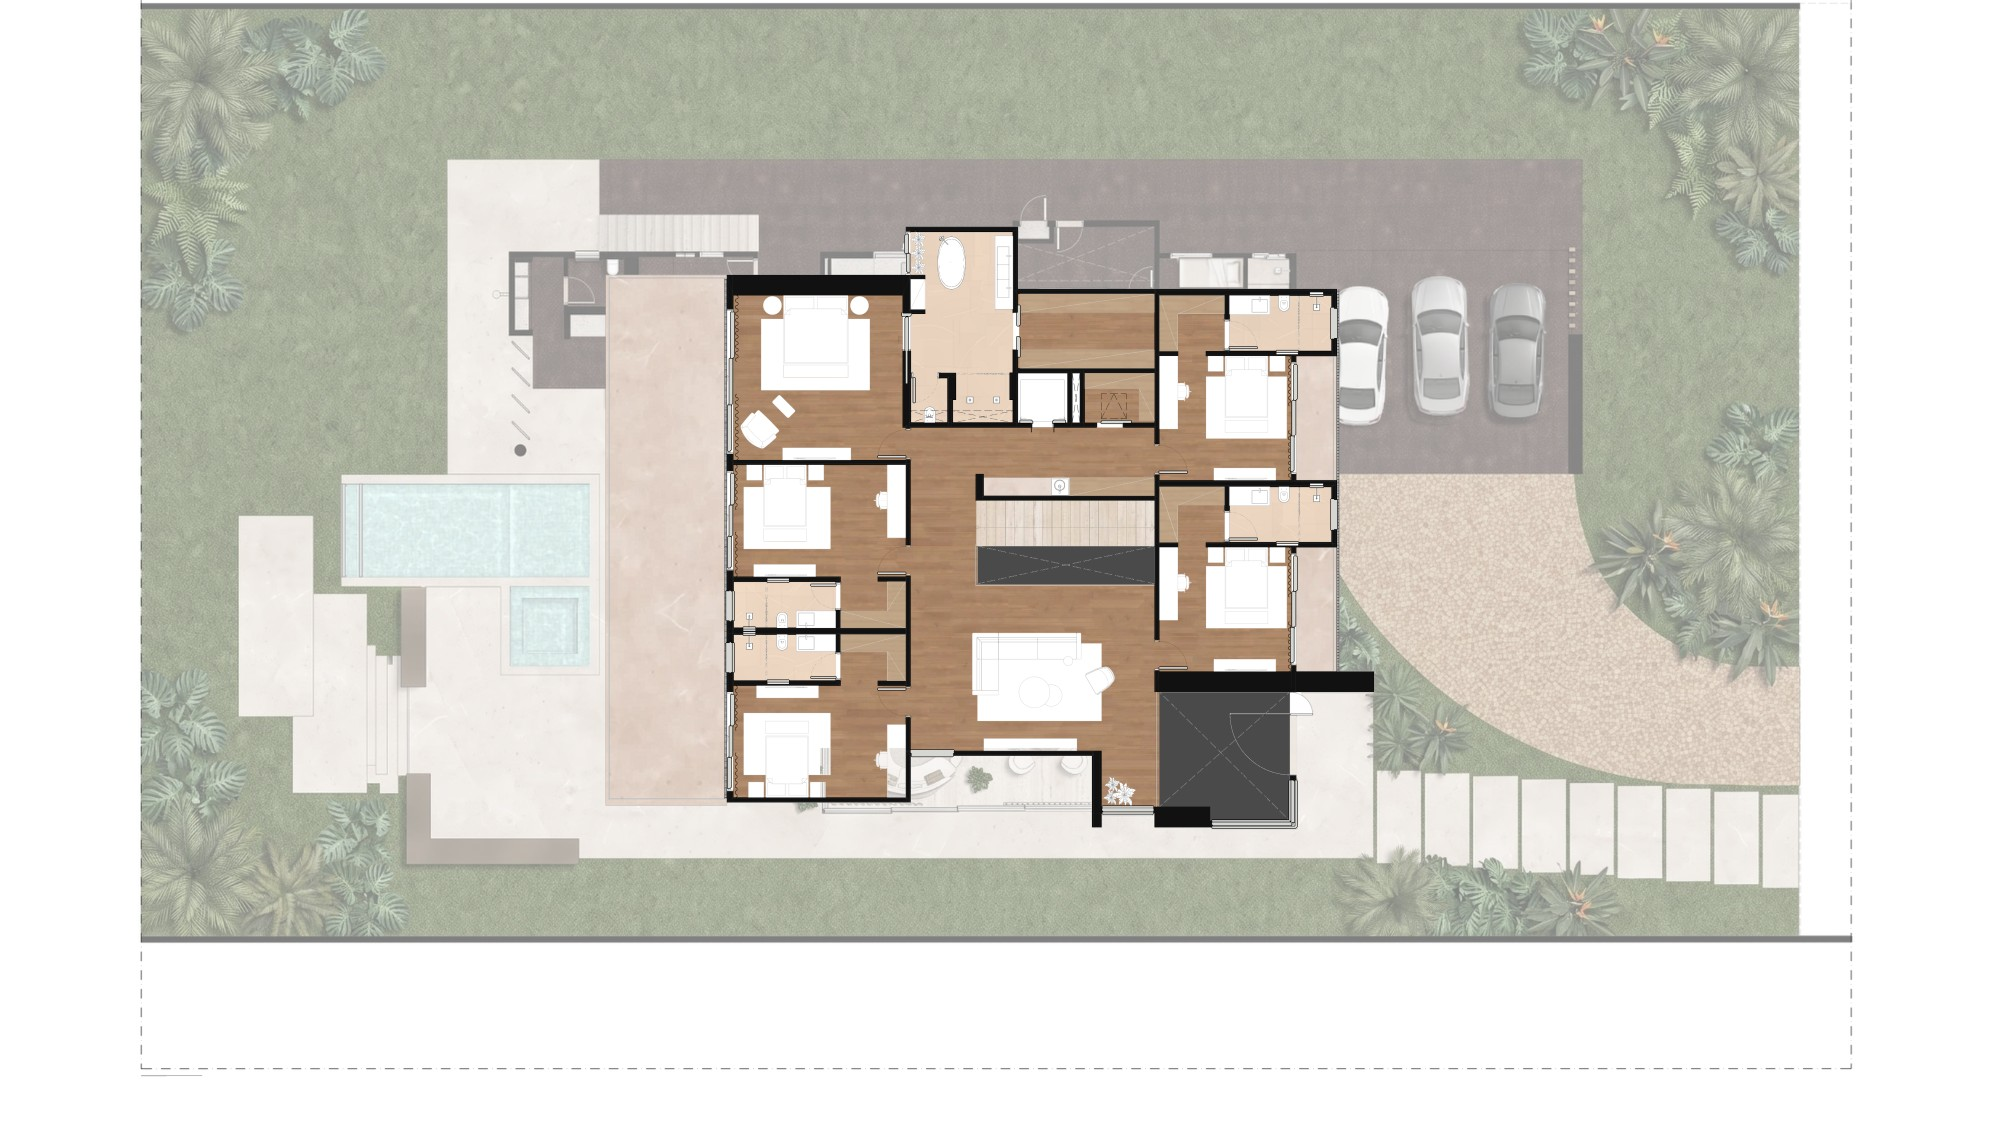
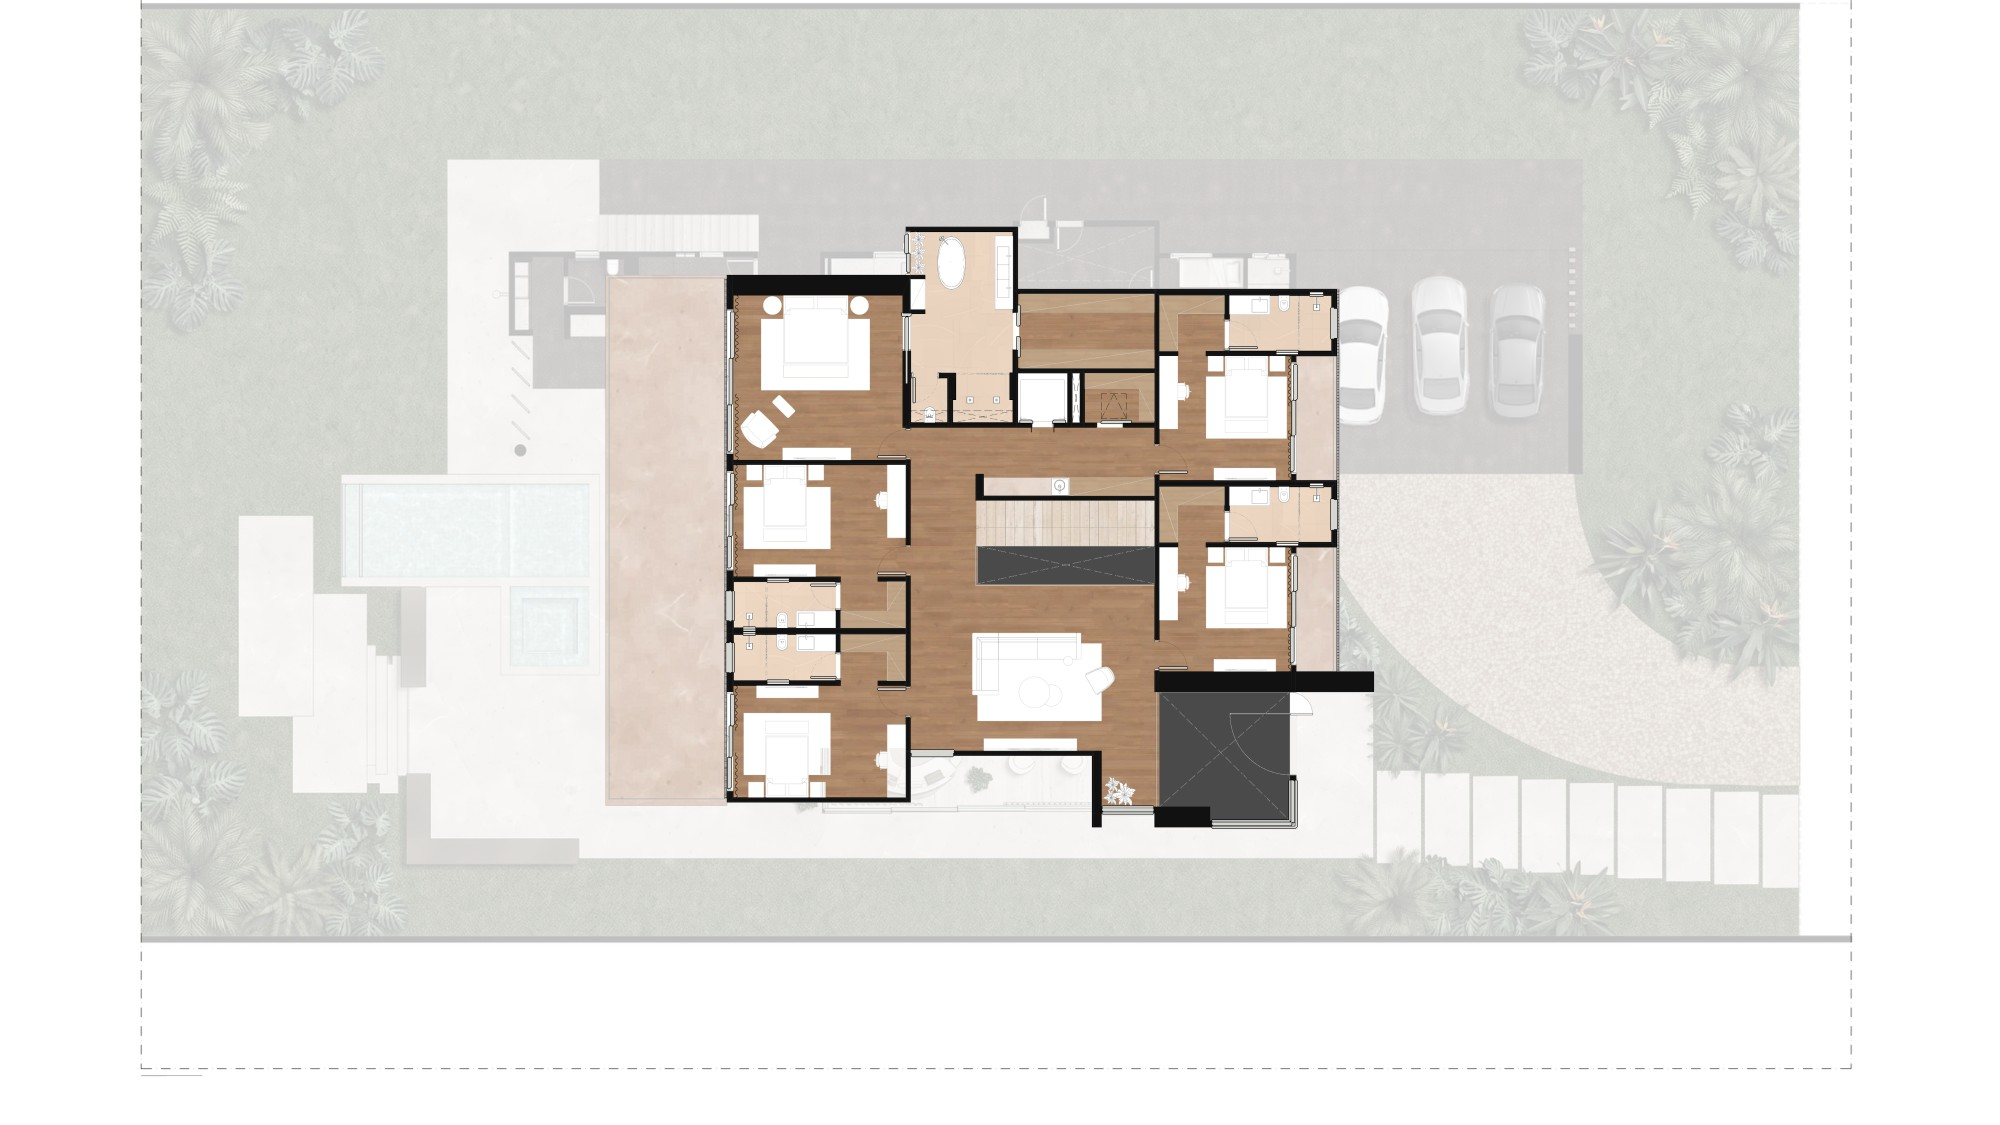
POE642 Casa E 1º Pavimento: Térreo mais esmaecido no entorno (75%)
Pedido do usuário ("temos que esmaecer mais"): o entorno_esmaecido.py passa a
clarear 75% e deixar 40% da saturação (antes 50% e 60%). Camada do Térreo
recortado e base v4 refeitas.

Claude-Session: https://claude.ai/code/session_01Mm19WX3KoLN1nXMDF5Ay3F

diff --git a/projetos/POE642_CasaA/scripts/entorno_esmaecido.py b/projetos/POE642_CasaA/scripts/entorno_esmaecido.py
@@ -59,7 +59,7 @@ def pegada(base, fora=()):
     return cv2.morphologyEx(peg.astype(np.uint8), cv2.MORPH_OPEN, np.ones((5, 5), np.uint8)) > 0
 
 
-def compor(base, render_baixo, base_baixo, clarear=0.5, saturacao=0.6, fora=(), cima=None, recorte=None):
+def compor(base, render_baixo, base_baixo, clarear=0.75, saturacao=0.4, fora=(), cima=None, recorte=None):
     """base: a base 16:9 do pavimento de cima (pegada e tracejado); cima: a imagem que vai por cima,
     já no quadro da base (o render do pavimento de cima), ou None para a própria base."""
     H, W = base.shape[:2]
@@ -90,8 +90,8 @@ def main():
     ap.add_argument("render_baixo", type=Path, help="render aprovado do pavimento de baixo")
     ap.add_argument("base_baixo", type=Path, help="base 16:9 do pavimento de baixo (alinhamento)")
     ap.add_argument("saida", type=Path)
-    ap.add_argument("--clarear", type=float, default=0.5)
-    ap.add_argument("--saturacao", type=float, default=0.6)
+    ap.add_argument("--clarear", type=float, default=0.75)
+    ap.add_argument("--saturacao", type=float, default=0.4)
     ap.add_argument("--base-cima", type=Path, default=None,
                     help="base 16:9 do pavimento de cima, quando a primeira imagem é o render dele")
     ap.add_argument("--largura", type=int, default=None, help="largura da saída (padrão: a da base)")

diff --git a/projetos/POE642_CasaA/scripts/README.md b/projetos/POE642_CasaA/scripts/README.md
@@ -373,7 +373,7 @@ python3 POE642_CasaA/scripts/piscina_dreno_casad.py      # -> POE642_CasaD/rende
 
 ## Pavimento de baixo esmaecido em volta: `entorno_esmaecido.py`
 
-Para um pavimento superior cujo PDF não traz o térreo (Casa E · 1º Pavimento): leva o render aprovado do pavimento de baixo ao quadro 16:9 comum (o `no_quadro_comum` das pranchas), clareia (`--clarear`, padrão 0,5) e tira saturação (`--saturacao`, padrão 0,6), e põe por cima a pegada do pavimento de cima em cor cheia (o que não é branco, fechado e com os furos preenchidos). `--fora` devolve ao contexto uma área branca de fora presa na pegada (px de uma prévia de 2000 px). As linhas tracejadas do lote continuam por cima. Com `--base-cima`, a primeira imagem é o render do pavimento de cima: ele vai ao quadro da base dele e entra por cima integralmente, na pegada tirada da base; `--largura` define a saída (3840 para a prancha) e `--recorte` salva também a camada do térreo esmaecido com a área do pavimento de cima transparente.
+Para um pavimento superior cujo PDF não traz o térreo (Casa E · 1º Pavimento): leva o render aprovado do pavimento de baixo ao quadro 16:9 comum (o `no_quadro_comum` das pranchas), clareia (`--clarear`, padrão 0,75) e tira saturação (`--saturacao`, padrão 0,4: fica 40% da saturação), e põe por cima a pegada do pavimento de cima em cor cheia (o que não é branco, fechado e com os furos preenchidos). `--fora` devolve ao contexto uma área branca de fora presa na pegada (px de uma prévia de 2000 px). As linhas tracejadas do lote continuam por cima. Com `--base-cima`, a primeira imagem é o render do pavimento de cima: ele vai ao quadro da base dele e entra por cima integralmente, na pegada tirada da base; `--largura` define a saída (3840 para a prancha) e `--recorte` salva também a camada do térreo esmaecido com a área do pavimento de cima transparente.
 
 ```bash
 python3 entorno_esmaecido.py ../../POE642_CasaE/bases/POE642_CasaE_BASE_1Pavimento_v3_texturas_16x9.png \

diff --git a/projetos/POE642_HANDOFF_SESSAO_LOCAL.md b/projetos/POE642_HANDOFF_SESSAO_LOCAL.md
@@ -520,7 +520,7 @@ python texturizar_base.py Subsolo ../../POE642_CasaC/bases/POE642_CasaC_BASE_Sub
 - **Prompt v1:** `POE642_CasaE_PH_1Pavimento_v1.md` (entrada: `bases/POE642_CasaE_BASE_1Pavimento_v3_texturas_16x9.png`). A casa vai de ~30% a ~69% da largura e de ~20% a ~74% da altura; as linhas tracejadas do lote ficam a ~7% e ~92,5% da largura e a ~95% da altura. Fundo branco (sem entorno do Térreo, como na base). Ambientes descritos por posição, porque o texto do PDF sai da base.
 - **Entorno (pedido do usuário, 16/10/26):** vegetação no entorno da residência, com o Térreo esmaecido em volta, como no 1º Pavimento da Casa A (opção escolhida entre: Térreo esmaecido, Térreo em cor cheia ou só grama).
   - **Base v4:** `bases/POE642_CasaE_BASE_1Pavimento_v4_entorno_16x9.png` e a prévia. É a v3 com texturas, mais o render aprovado do Térreo (`renders/POE642_CasaE_PH_Terreo_v1_retocado.png`, com o Barlavento) em volta da pegada do 1º Pavimento.
-    - O Térreo vai ao quadro comum (106 pontos, erro mediano 1,28 px na largura da base), 50% mais claro e 40% menos saturado.
+    - O Térreo vai ao quadro comum (106 pontos, erro mediano 1,28 px na largura da base), 75% mais claro e 60% menos saturado (o usuário pediu "temos que esmaecer mais"; antes, 50% e 40%; comparados 50, 65 e 75%).
     - A área branca abaixo da sala íntima, fora da casa, também mostra o contexto.
     - Script novo: `scripts/entorno_esmaecido.py`.
   - **Prompt v2:** `POE642_CasaE_PH_1Pavimento_v2.md` (entrada: a base v4). O fundo branco virou o Térreo esmaecido, mantido exatamente como está; a vegetação fica só nele; em cor cheia, só o 1º Pavimento.

diff --git a/projetos/POE642_CasaE/POE642_CasaE_PH_1Pavimento_v2.md b/projetos/POE642_CasaE/POE642_CasaE_PH_1Pavimento_v2.md
@@ -10,7 +10,7 @@ _16/10/2026. Motor: Higgsfield Nano Banana Pro (image-to-image, 16:9, 2K, PNG), 
 
 **Da v1 para a v2 (pedido seu, 16/10/26):** vegetação no entorno da residência, com o Térreo esmaecido em volta, como no 1º Pavimento da Casa A.
 - **Base v4:** a v3 com texturas, mais o render aprovado do Térreo da Casa E em volta da casa.
-  - mais claro (50%) e menos saturado (40%);
+  - 75% mais claro e 60% menos saturado;
   - gramado, paisagismo, piscina em Barlavento, deck, bloco gourmet, garagem com os carros, acesso de pedra portuguesa e pisantes;
   - script `entorno_esmaecido.py`.
 - **Prompt:** o fundo branco vira o Térreo esmaecido. O motor mantém esse contexto exatamente como está, claro e sem reforçar cor ou textura, e a vegetação fica só nele.
